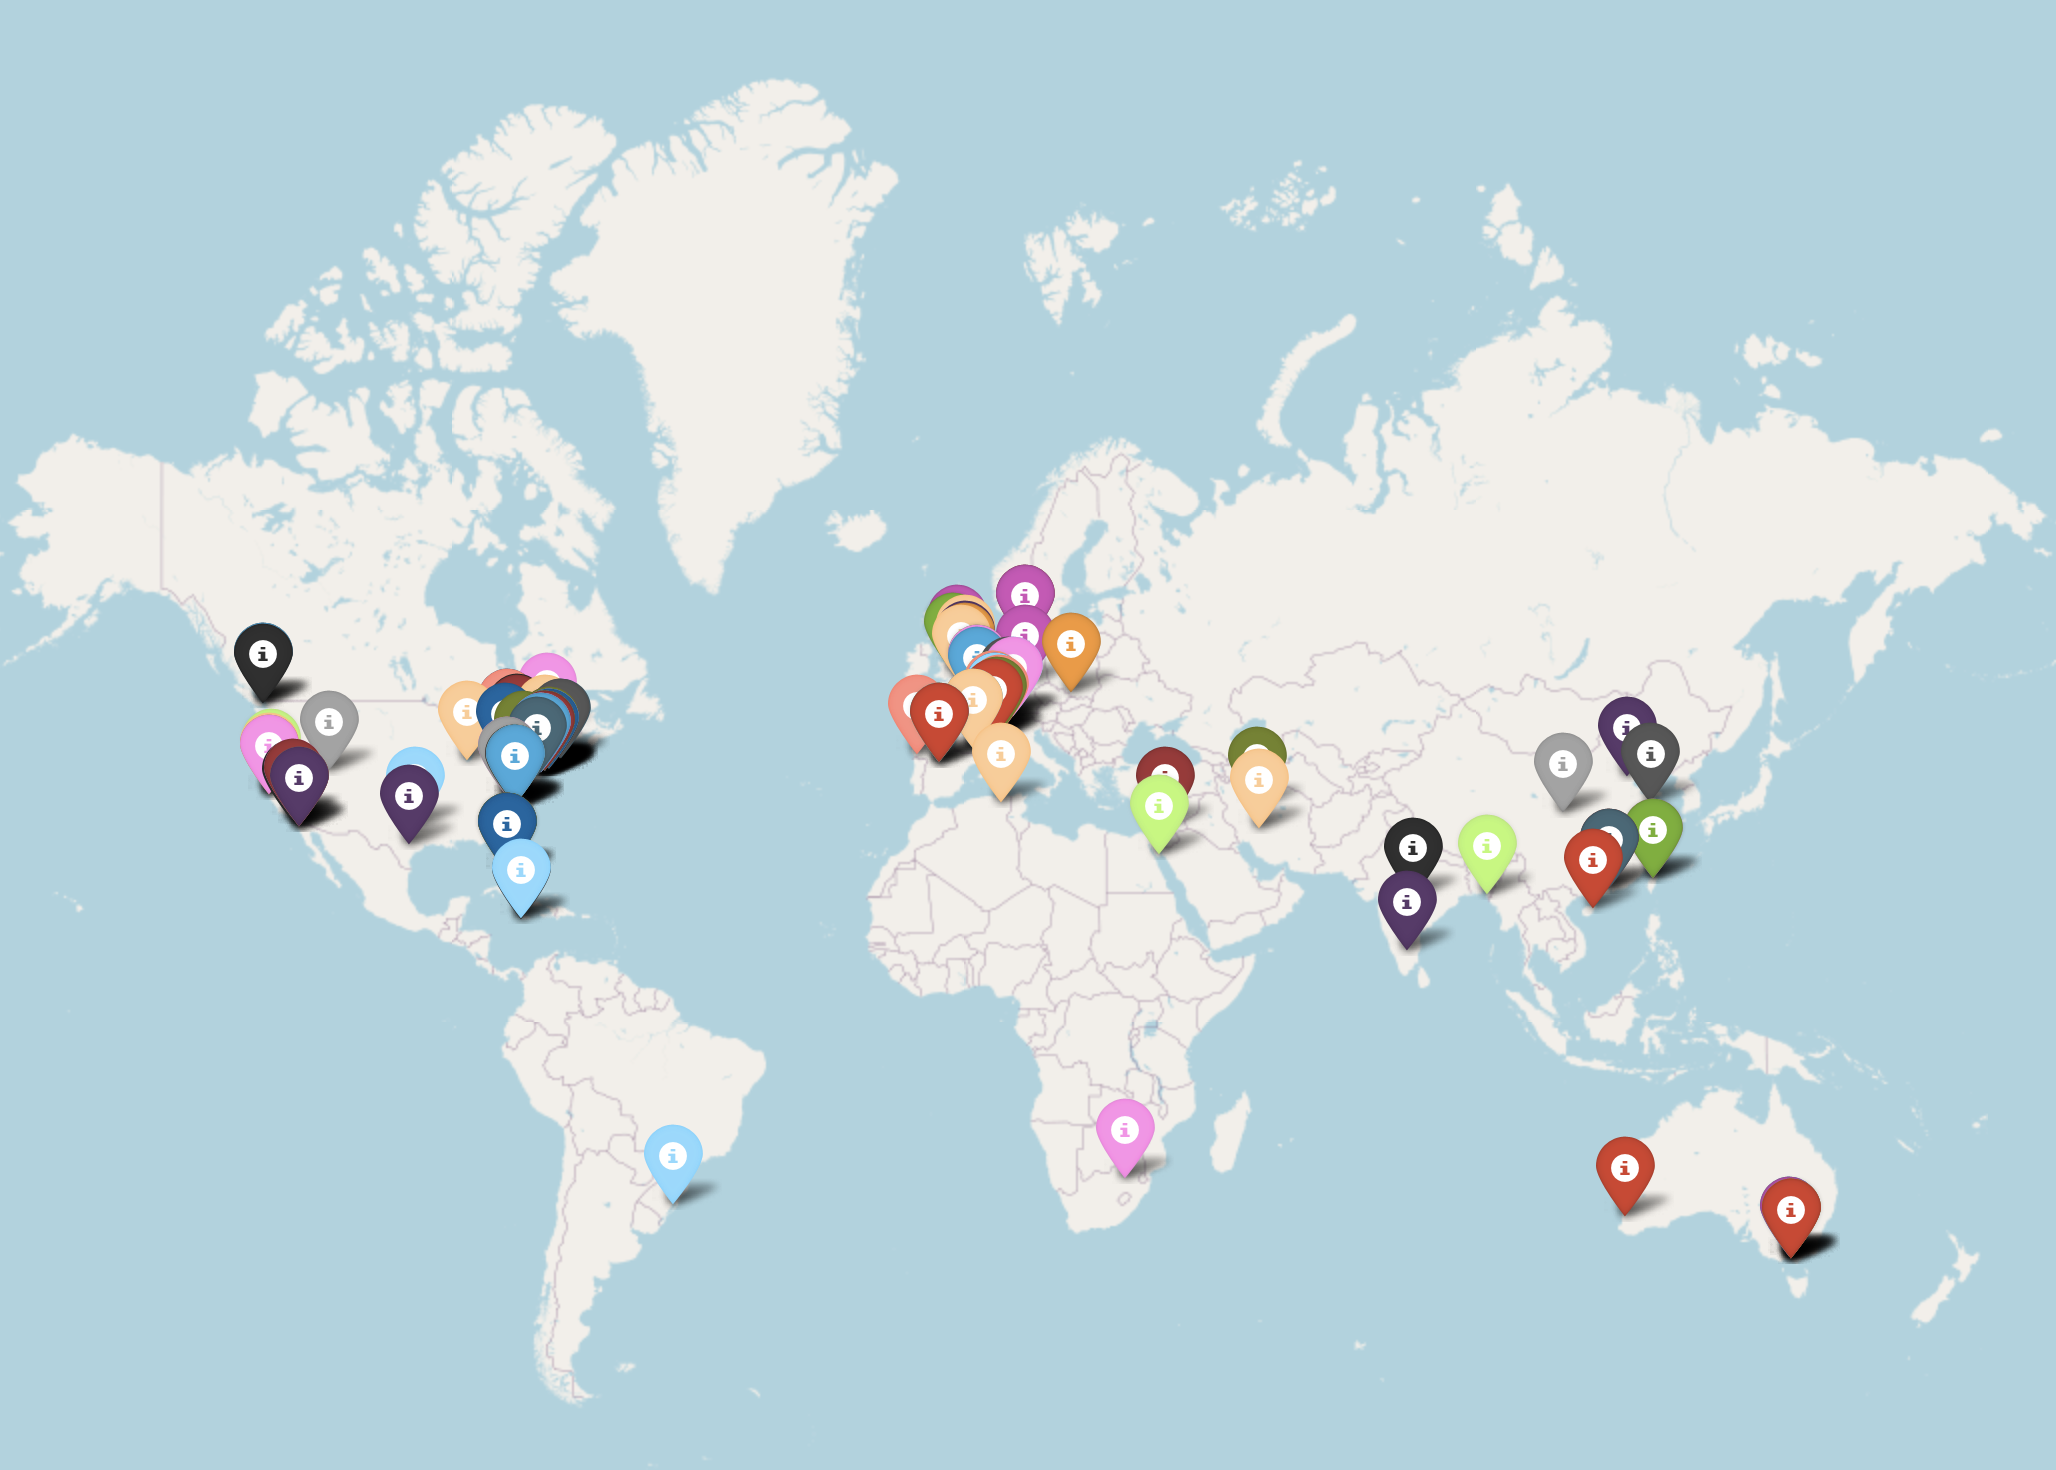
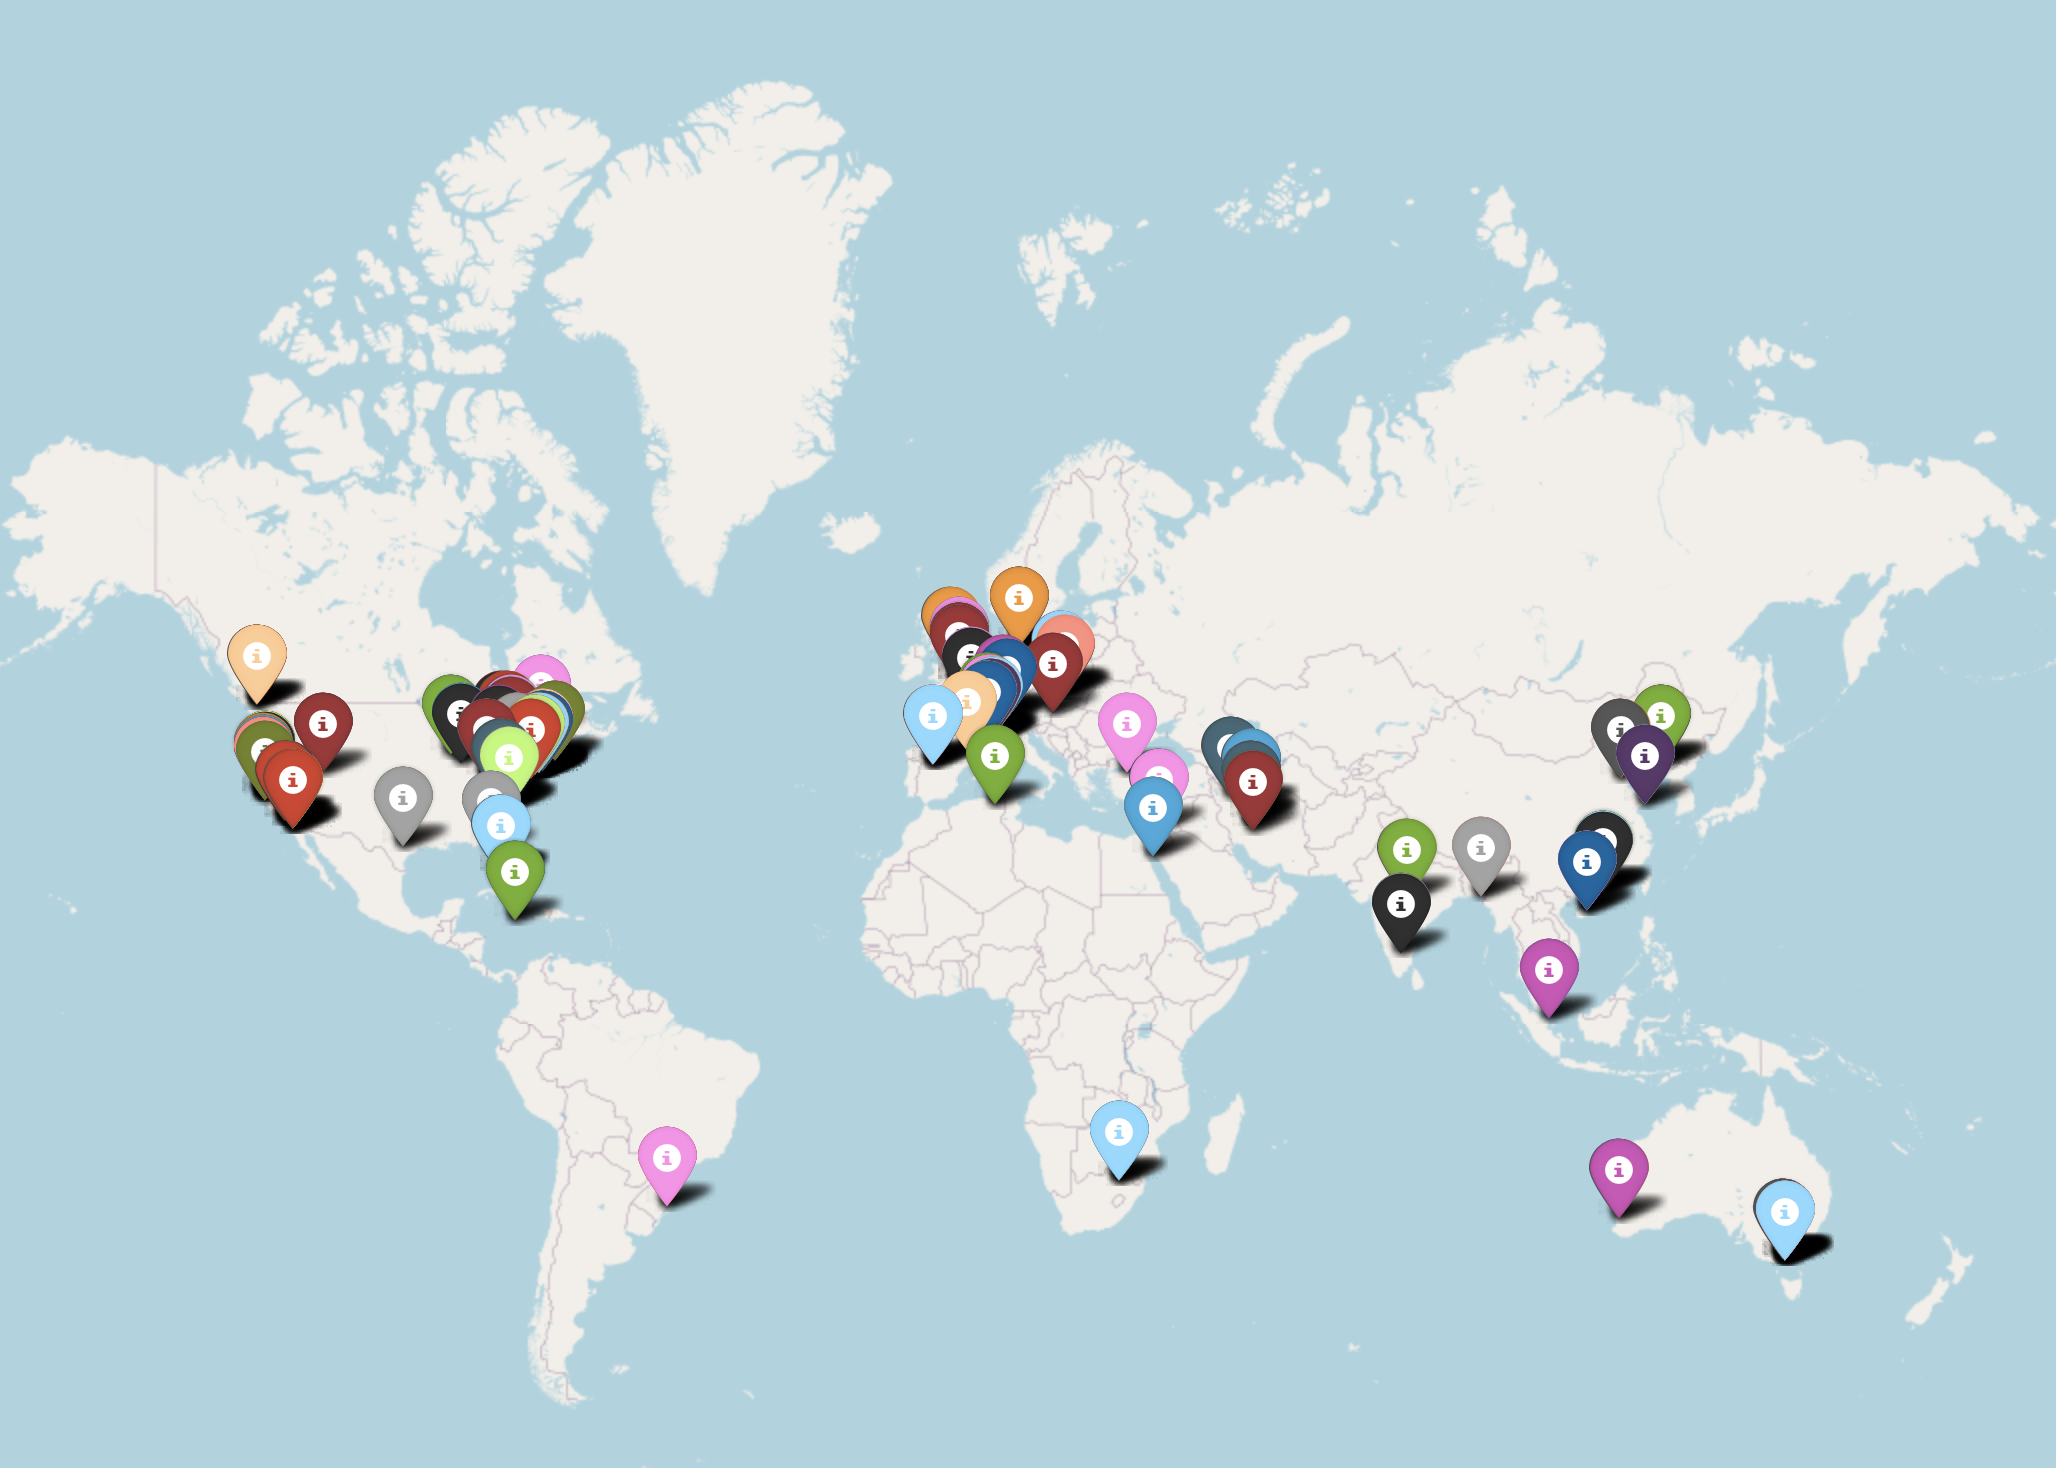
Version 3.10. Slight improvement on affiliation searching.

diff --git a/citation_map/citation_map.py b/citation_map/citation_map.py
@@ -1,15 +1,16 @@
+import itertools
 import re
 import random
 import time
-import itertools
 
+from multiprocessing import Pool
+import pycountry
+from tqdm import tqdm
 from typing import List, Tuple
-from scholarly import scholarly, ProxyGenerator
-from geopy.geocoders import Nominatim
 
 import folium
-from tqdm import tqdm
-from multiprocessing import Pool
+from geopy.geocoders import Nominatim
+from scholarly import scholarly, ProxyGenerator
 
 from .scholarly_support import get_author_ids
 
@@ -30,11 +31,13 @@ def find_all_citing_institutions(publications, num_processes: int = 16) -> List[
     if num_processes > 1 and isinstance(num_processes, int):
         with Pool(processes=num_processes) as pool:
             all_publications = list(tqdm(pool.imap(__fill_publication_metadata, publications),
-                                        desc='Filling metadata for all publications',
-                                        total=len(publications)))
+                                         desc='Filling metadata for your %d publications' % len(publications),
+                                         total=len(publications)))
     else:
         all_publications = []
-        for pub in tqdm(publications, desc='Filling metadata for all publications', total=len(publications)):
+        for pub in tqdm(publications,
+                        desc='Filling metadata for your %d publications' % len(publications),
+                        total=len(publications)):
             all_publications.append(__fill_publication_metadata(pub))
 
     # Convert all publications to Google Scholar publication IDs.
@@ -49,11 +52,13 @@ def find_all_citing_institutions(publications, num_processes: int = 16) -> List[
     if num_processes > 1 and isinstance(num_processes, int):
         with Pool(processes=num_processes) as pool:
             all_citing_authors_nested = list(tqdm(pool.imap(__citing_author_ids_from_publication, all_publication_ids),
-                                                 desc='Finding all citing authors from cited publications',
+                                                 desc='Finding citing authors from your %d publications' % len(all_publication_ids),
                                                  total=len(all_publication_ids)))
     else:
         all_citing_authors_nested = []
-        for pub in tqdm(all_publication_ids, desc='Finding all citing authors from cited publications', total=len(all_publication_ids)):
+        for pub in tqdm(all_publication_ids,
+                        desc='Finding citing authors from your %d publications' % len(all_publication_ids),
+                        total=len(all_publication_ids)):
             all_citing_authors_nested.append(__citing_author_ids_from_publication(pub))
     all_citing_authors = list(itertools.chain(*all_citing_authors_nested))
 
@@ -61,25 +66,30 @@ def find_all_citing_institutions(publications, num_processes: int = 16) -> List[
     if num_processes > 1 and isinstance(num_processes, int):
         with Pool(processes=num_processes) as pool:
             author_institution_tuple_list = list(tqdm(pool.imap(__institutions_from_authors, all_citing_authors),
-                                                    desc='Finding all citing institutions from citing authors',
-                                                    total=len(all_citing_authors)))
+                                                      desc='Finding citing institutions from %d citing authors' % len(all_citing_authors),
+                                                      total=len(all_citing_authors)))
     else:
         author_institution_tuple_list = []
-        for author in tqdm(all_citing_authors, desc='Finding all citing institutions from citing authors', total=len(all_citing_authors)):
+        for author in tqdm(all_citing_authors,
+                           desc='Finding citing institutions from %d citing authors' % len(all_citing_authors),
+                           total=len(all_citing_authors)):
             author_institution_tuple_list.append(__institutions_from_authors(author))
 
     return author_institution_tuple_list
 
 def clean_institution_names(author_institution_tuple_list: List[Tuple[str]]) -> List[Tuple[str]]:
     '''
-    Step 3. Clean up the name of institutions from the author's self-entered Google Scholar affiliation.
+    Step 3. Clean up the names of institutions from the authors' affiliations on their Google Scholar profiles.
     NOTE: This logic is very naive. Please send an issue or pull request if you have any idea how to improve it.
     Currently we will not consider any paid service or tools that pose extra burden on the users, such as GPT API.
     '''
     cleaned_author_institution_tuple_list = []
     for author_name, institution_string in author_institution_tuple_list:
-        # Use a regular expression to split the string by ',', ';', or 'and'.
-        substring_list = [part.strip() for part in re.split(r'[;,]|\band\b', institution_string)]
+        # Use a regular expression to split the string by ';' or 'and'.
+        substring_list = [part.strip() for part in re.split(r'[;]|\band\b', institution_string)]
+        # Further split the substrings by ',' if the latter component is not a country.
+        substring_list = __country_aware_comma_split(substring_list)
+
         for substring in substring_list:
             # Use a regular expression to remove anything before 'at', or '@'.
             cleaned_institution = re.sub(r'.*?\bat\b|.*?@', '', substring, flags=re.IGNORECASE).strip()
@@ -87,7 +97,7 @@ def clean_institution_names(author_institution_tuple_list: List[Tuple[str]]) -> 
             # a person's identity rather than affiliation.
             is_common_identity_string = re.search(
                 re.compile(
-                    r'\b(director|manager|chair|engineer|programmer|scientist|professor|lecturer|phd|student|ph\.d|department of)\b',
+                    r'\b(director|manager|chair|engineer|programmer|scientist|professor|lecturer|phd|ph\.d|postdoc|doctor|student|department of)\b',
                     re.IGNORECASE),
                 substring)
             if not is_common_identity_string:
@@ -104,7 +114,7 @@ def institution_text_to_geocode(author_institution_tuple_list: List[Tuple[str]],
     # Therefore, we will keep it to a loop instead of multiprocessing.
     geolocator = Nominatim(user_agent='citation_mapper')
     for author_institution_tuple in tqdm(author_institution_tuple_list,
-                                         desc='Finding all geographic coordinates from citing institutions',
+                                         desc='Finding geographic coordinates from %d citing institutions' % len(author_institution_tuple_list),
                                          total=len(author_institution_tuple_list)):
         for _ in range(max_attempts):
             try:
@@ -151,6 +161,34 @@ def __institutions_from_authors(author_id: str):
         return (citing_author['name'], citing_author['affiliation'])
     return []
 
+def __country_aware_comma_split(string_list: List[str]) -> List[str]:
+    comma_split_list = []
+
+    for part in string_list:
+        # Split the strings by comma.
+        # NOTE: The non-English comma is entered intentionally.
+        sub_parts = [sub_part.strip() for sub_part in re.split(r'[,，]', part)]
+        sub_parts_iter = iter(sub_parts)
+
+        # Merge the split strings if the latter component is a country name.
+        for sub_part in sub_parts_iter:
+            if __iscountry(sub_part):
+                continue  # Skip country names if they appear as the first sub_part.
+            next_part = next(sub_parts_iter, None)
+            if __iscountry(next_part):
+                comma_split_list.append(f"{sub_part}, {next_part}")
+            else:
+                comma_split_list.append(sub_part)
+                if next_part:
+                    comma_split_list.append(next_part)
+    return comma_split_list
+
+def __iscountry(string: str) -> bool:
+    try:
+        pycountry.countries.lookup(string)
+        return True
+    except LookupError:
+        return False
 
 def generate_citation_map(scholar_id: str,
                           output_path: str = 'citation_map.html',

diff --git a/setup.py b/setup.py
@@ -5,7 +5,7 @@ with open('README.md') as f:
 
 setup(
     name='citation-map',
-    version='3.8',
+    version='3.10',
     license='Apache 2.0',
     author='Chen Liu',
     author_email='chen.liu.cl2482@yale.edu',
@@ -16,7 +16,7 @@ setup(
     long_description_content_type='text/markdown',
     url='https://github.com/ChenLiu-1996/CitationMap',
     keywords='citation map, citation world map, google scholar',
-    install_requires=['scholarly', 'geopy', 'folium', 'tqdm', 'requests', 'bs4'],
+    install_requires=['scholarly', 'geopy', 'folium', 'tqdm', 'requests', 'bs4', 'pycountry'],
     classifiers=[
     'Development Status :: 3 - Alpha',      # Chose either "3 - Alpha", "4 - Beta" or "5 - Production/Stable" as the current state of your package
     'Intended Audience :: Developers',      # Define that your audience are developers

diff --git a/README.md b/README.md
@@ -77,8 +77,8 @@ If you open it on a browser, you will see your own version of the following cita
     - Your Google Scholar profile is not up-to-date.
     - Some papers citing you are not indexed by Google Scholar.
     - Some authors citing you do not have Google Scholar profile.
-    - Some authors citing you do not self-report their affiliations.
-2. `geopy.geocoders` is used to convert the citing authors' self-reported affiliations to geographic coordinates. To facilitate the process, I used some simple rule-based natural language processing to clean up the affiliations. As a result, you are expected to have:
+    - Some authors citing you do not report their affiliations.
+2. `geopy.geocoders` is used to convert the citing authors' affiliations to geographic coordinates. To facilitate the process, I used some simple rule-based natural language processing to clean up the affiliations. As a result, you are expected to have:
     - Underestimation if correct affiliations are not found by `geopy.geocoders`.
     - Underestimation if we experience communication error with `geopy.geocoders`.
     - Overestimation if non-affiliation terms are incorrectly identified as locations by `geopy.geocoders`.
@@ -96,11 +96,13 @@ If you open it on a browser, you will see your own version of the following cita
 ## Changelog
 
 <details>
-<summary>Version 3.8</summary>
+<summary>Version 3.10</summary>
 <br>
-In 3.7, I updated the logic for webscraping and avoided using `scholarly.citeby()` which is the biggest trigger of blacklisting from Google Scholar.
+In 3.10, I slightly improved the logic for affiliation extraction.
 
 In 3.8, I removed multiprocessing for `geopy.geocoders` as per their official documentation. Also I cleaned up some unnecessary `scholarly` calls which further helps us not get blacklisted by Google Scholar.
+
+In 3.7, I updated the logic for webscraping and avoided using `scholarly.citeby()` which is the biggest trigger of blacklisting from Google Scholar.
 
 **Now we should be able to handle users with more citations than before. I tested on a profile with 1000 citations without running into any issue.**
 </details>
@@ -108,7 +110,7 @@ In 3.8, I removed multiprocessing for `geopy.geocoders` as per their official do
 <details>
 <summary>Version 3.0</summary>
 <br>
-I realized a problem with how I used `geopy.geocoders`. A majority of the authors' self-entered affiliations include details that are irrelevant to the affiliation itself. Therefore, they are not successfully found in the system and hence are not converted to geographic coordinates on the world map.
+I realized a problem with how I used `geopy.geocoders`. A majority of the authors' affiliations include details that are irrelevant to the affiliation itself. Therefore, they are not successfully found in the system and hence are not converted to geographic coordinates on the world map.
 
 For example, we would want the substring "Yale University" from the string "Assistant Professor at Yale University".
 
